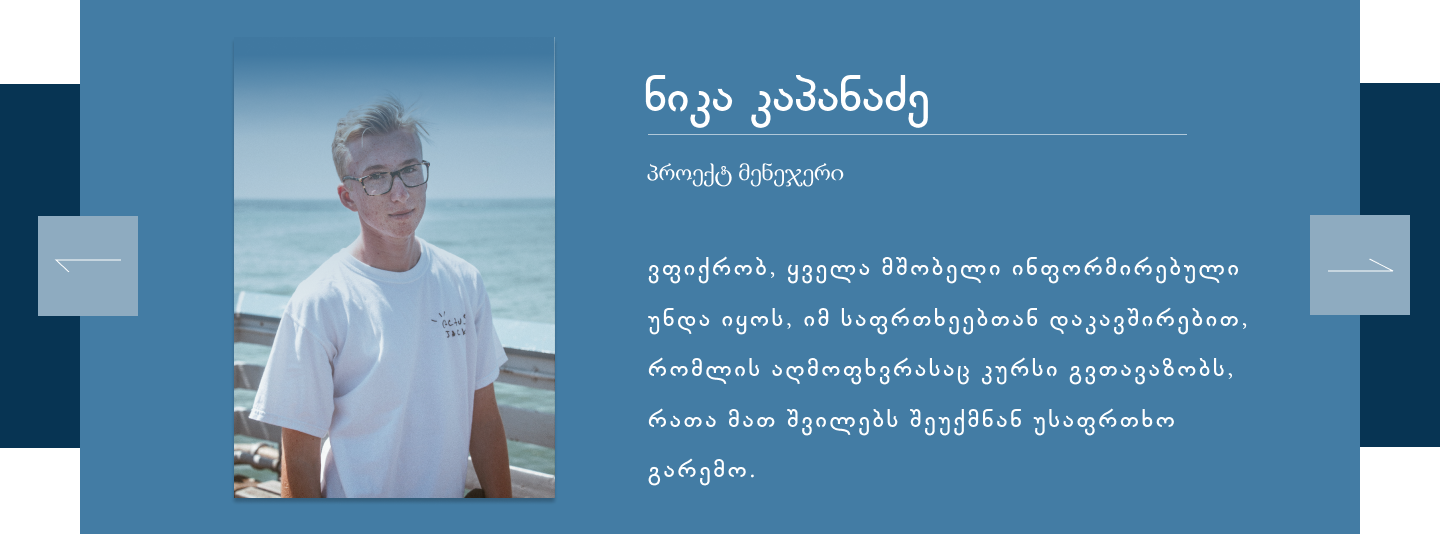
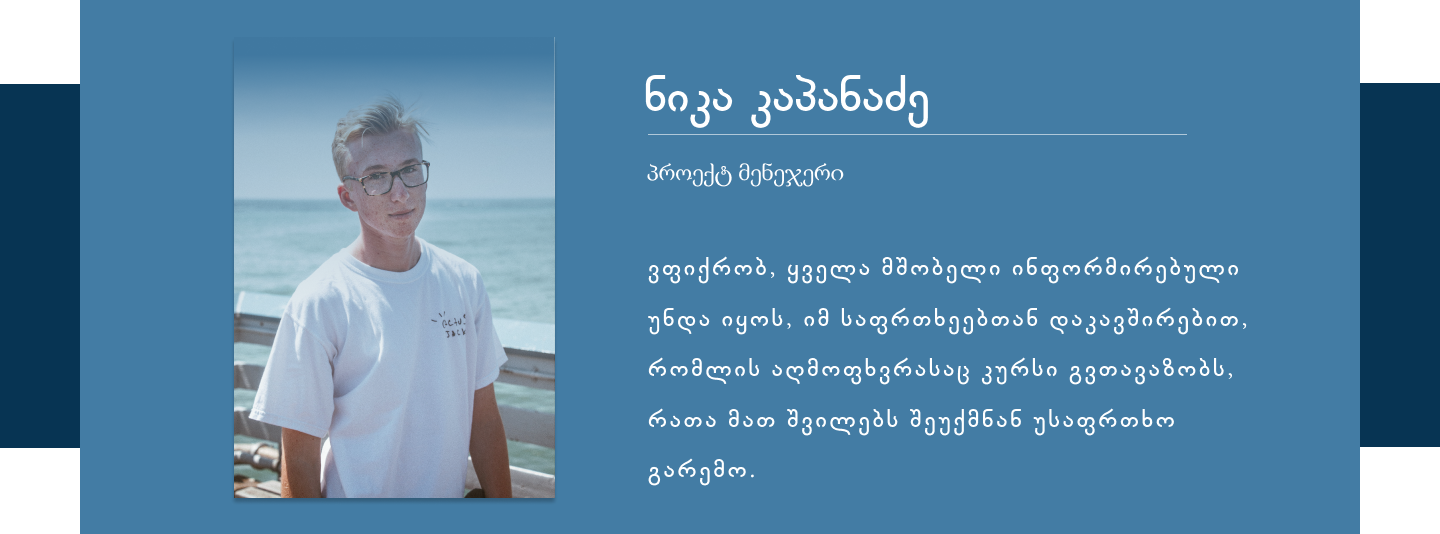
feat:done

Changed region(s): [[0.9062, 0.3895, 1.0, 0.5993], [0.0, 0.3895, 0.0938, 0.5993]]

diff --git a/src/routes/Home/Home.jsx b/src/routes/Home/Home.jsx
@@ -224,8 +224,8 @@ function Home() {
    <SliderContainerWrapper >
      
         <Slide
-          // prevArrow={<NextArrow1>{"<"}</NextArrow1>}
-          // nextArrow={<PrevArrow2>{">"}</PrevArrow2>}
+          prevArrow={<NextArrow1>{"<"}</NextArrow1>}
+          nextArrow={<PrevArrow2>{">"}</PrevArrow2>}
           onChange={(previous, next) => setCurrentSlide2(next)}
         >
           {slideImages2.map((slideImage, index) => (
@@ -380,6 +380,7 @@ const NextArrow1 = styled(ArrowButton)`
 height: 100px;
 flex-shrink: 0;
 background-color: #8EABC0;
+display: none;
 `;
 
 const PrevArrow2 = styled(ArrowButton)`
@@ -394,6 +395,7 @@ const PrevArrow2 = styled(ArrowButton)`
 height: 100px;
 flex-shrink: 0;
 background-color: #8EABC0;
+display: none;
 `;
 const DotsWrapper = styled.div`
     position: absolute;
@@ -406,7 +408,7 @@ const DotsWrapper2 = styled.div`
 display: flex;
 justify-content: center;
 position: relative;
-bottom: 60px;
+bottom: 198px;
 `;
 const Dot = styled.span`
   height: 4px;
